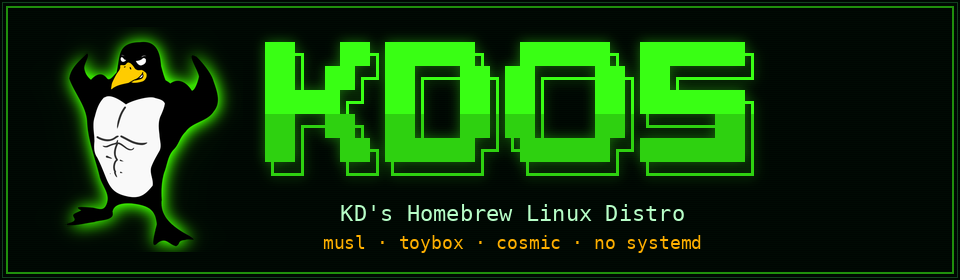
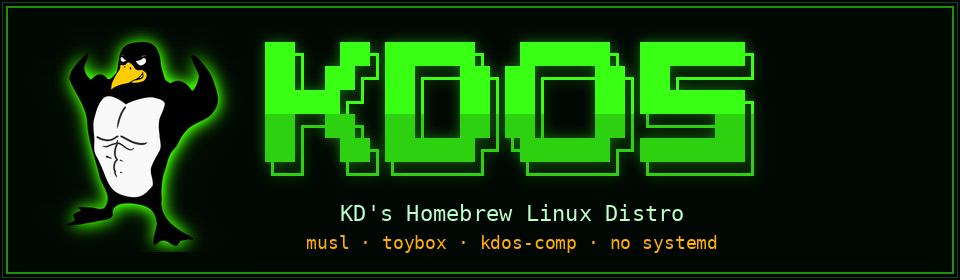
refind fixes

diff --git a/src/packages/kdos-splash/genbanner.py b/src/packages/kdos-splash/genbanner.py
@@ -1,0 +1,98 @@
+#!/usr/bin/env python3
+# ██╗  ██╗██████╗  ██████╗ ███████╗
+# ██║ ██╔╝██╔══██╗██╔═══██╗██╔════╝
+# █████╔╝ ██║  ██║██║   ██║███████╗
+# ██╔═██╗ ██║  ██║██║   ██║╚════██║
+# ██║  ██╗██████╔╝╚██████╔╝███████║
+# ╚═╝  ╚═╝╚═════╝  ╚═════╝ ╚══════╝
+# ---------------------------------
+#   KD's Homebrew Linux Distro
+# ---------------------------------
+#
+# Restamp the two caption lines on kdos-banner.png, the rEFInd boot banner.
+#
+# HOST ONLY, and its output is committed -- the arrangement genlogo.py,
+# genmarks.py and kdos-bb's genimg.py already use. It exists because the
+# banner is the one shipped artefact with TEXT BAKED INTO A BINARY: the
+# strings below said `cosmic` for a whole milestone after that desktop was
+# deleted, and nothing in the tree could see it. grep cannot read a PNG.
+# Changing what the boot screen says is now a one-line edit here.
+#
+# IDEMPOTENT. The caption band is repainted with the flat background before
+# anything is drawn, so running this twice produces the same file. The band
+# is measured, not guessed: BAND is the region right of the mascot and above
+# the rule that contains the two caption lines and nothing else.
+#
+#   ./genbanner.py            rewrite the banner in place
+#   ./genbanner.py --check    report what it says now and exit
+
+import os, sys
+from PIL import Image, ImageDraw, ImageFont
+
+# The banner is shipped through fs/, which is copied verbatim into the
+# rootfs -- so the GENERATOR must not live beside it or the target would gain
+# a python script, on a system that deliberately has none. Same split
+# genlogo.py keeps: the tool lives in the port, the artefact lives in fs/.
+HERE = os.path.dirname(os.path.abspath(__file__))
+ROOT = os.path.abspath(os.path.join(HERE, "..", "..", ".."))
+PNG  = os.path.join(ROOT, "fs", "usr", "share", "kdos", "boot", "kdos-banner.png")
+FONT = "/usr/share/fonts/truetype/dejavu/DejaVuSansMono.ttf"
+
+# What the boot screen says. THIS is the line to edit.
+TITLE    = "KD's Homebrew Linux Distro"
+SUBTITLE = "musl · toybox · kdos-comp · no systemd"
+
+# Measured off the shipped banner, not chosen: the fitted DejaVu Sans Mono
+# sizes reproduce the original ink widths to within 3px, the colours are the
+# modal bright pixel of each line, and CENTRE is where both lines were
+# already centred -- right of image centre, because the mascot sits left.
+BG       = (0, 6, 2)
+CENTRE   = 512
+BAND     = (255, 198, 926, 260)          # x0, y0, x1, y1 -- captions only
+TITLE_Y, TITLE_SZ, TITLE_FG    = 204, 22, (184, 255, 200)
+SUB_Y,   SUB_SZ,   SUB_FG      = 235, 18, (255, 176, 0)
+
+# The reference strings the Y positions were measured against. Ink top
+# depends on which letters a string HAS -- "kdos-comp" has a descender the
+# old text did not -- so both lines are placed by BASELINE, derived from
+# these, rather than by their own ink box.
+TITLE_REF = "KD's Homebrew Linux Distro"
+SUB_REF   = "musl · toybox · cosmic · no systemd"
+
+
+def origin_for(font, ref, ink_top):
+    """The draw origin whose baseline matches what `ref` had at ink_top."""
+    probe = Image.new("L", (1200, 120), 0)
+    ImageDraw.Draw(probe).text((10, 40), ref, font=font, fill=255)
+    return ink_top - (probe.getbbox()[1] - 40)
+
+
+def stamp(im):
+    d = ImageDraw.Draw(im)
+    d.rectangle(BAND, fill=BG)
+    for txt, ref, y, sz, fg in ((TITLE, TITLE_REF, TITLE_Y, TITLE_SZ, TITLE_FG),
+                                (SUBTITLE, SUB_REF, SUB_Y, SUB_SZ, SUB_FG)):
+        f = ImageFont.truetype(FONT, sz)
+        d.text((CENTRE, origin_for(f, ref, y)), txt, font=f, fill=fg, anchor="ma")
+    return im
+
+
+def main():
+    im = Image.open(PNG).convert("RGB")
+    if "--check" in sys.argv:
+        print("banner %dx%d" % im.size)
+        print("  title    : %s" % TITLE)
+        print("  subtitle : %s" % SUBTITLE)
+        return
+    w, h = im.size
+    stamp(im).save(PNG)
+    # The band must not have eaten anything else. A mascot or a rule inside
+    # it would come back as flat background and nobody would notice until a
+    # machine booted.
+    chk = Image.open(PNG).convert("RGB")
+    assert chk.size == (w, h), "banner changed size"
+    print("%s: captions restamped" % PNG)
+    print("  %s" % TITLE)
+    print("  %s" % SUBTITLE)
+
+main()
